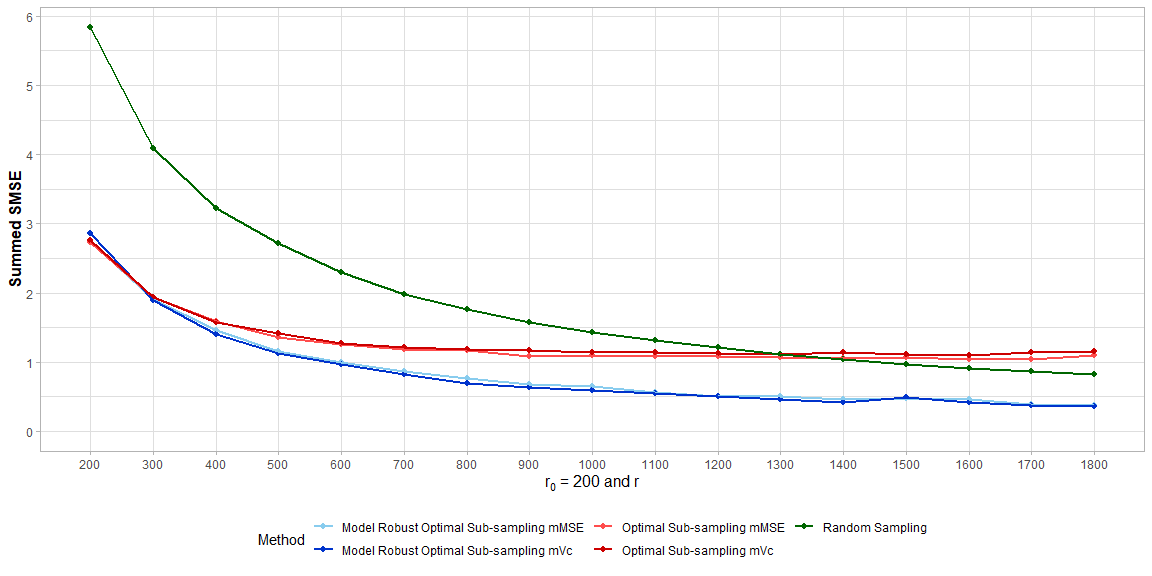
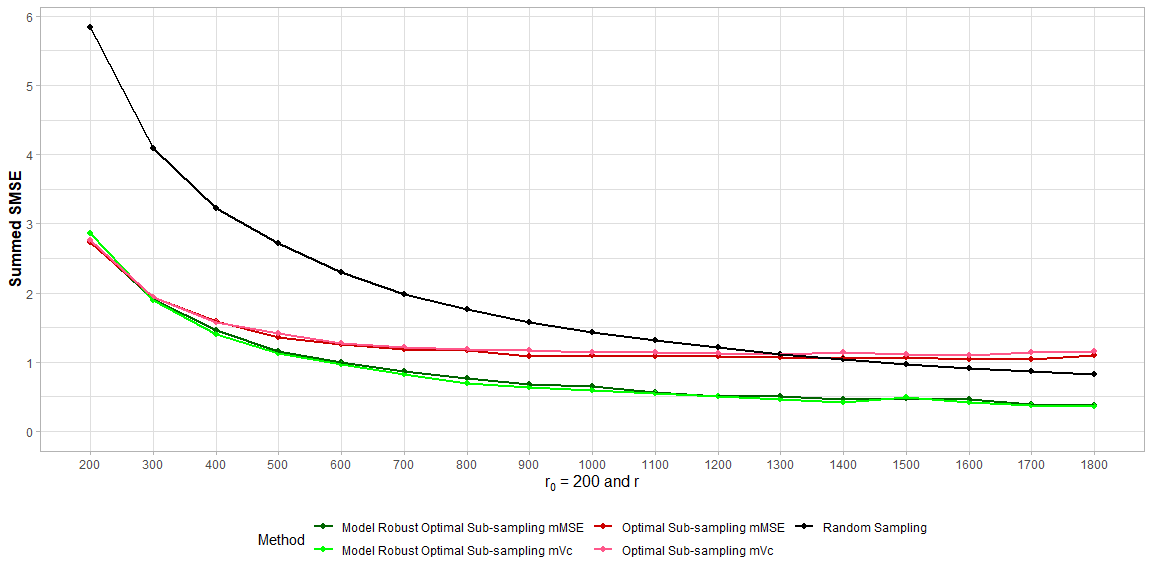
Update plots with colors

diff --git a/Articles.md b/Articles.md
@@ -1,6 +1,6 @@
 Article
 ================
 Amalan
-April 09, 2022
+June 02, 2022
 
 ![](Articles_files/figure-gfm/load%20Non%20Identical%20Data-1.png)<!-- -->![](Articles_files/figure-gfm/load%20Non%20Identical%20Data-2.png)<!-- -->
